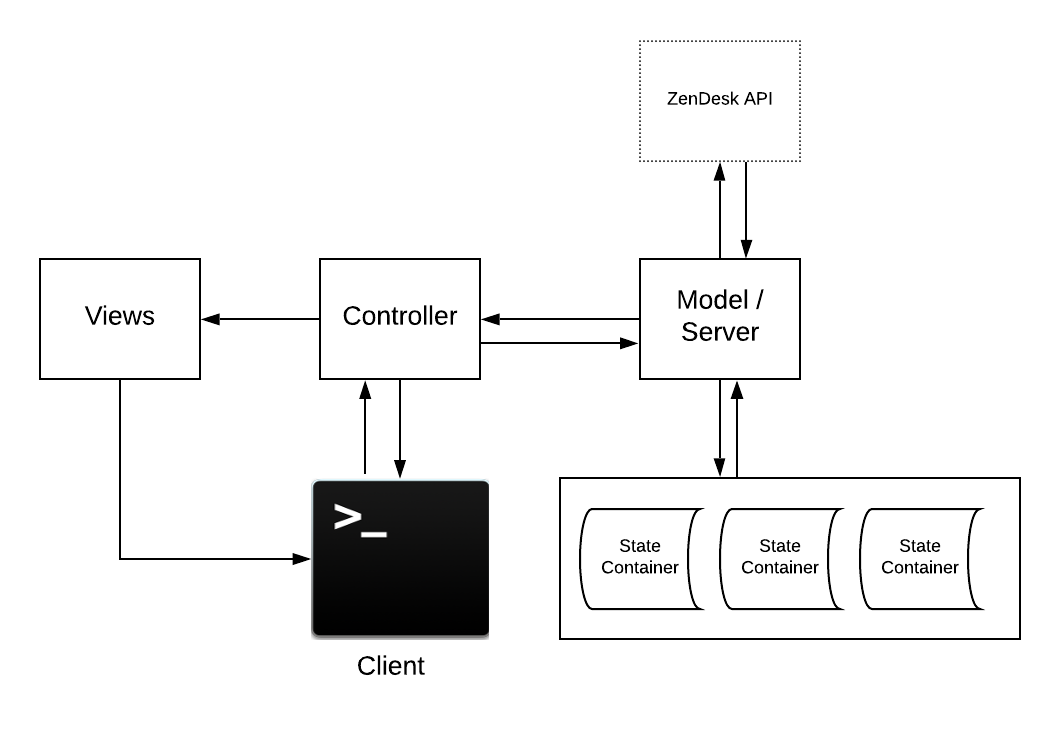
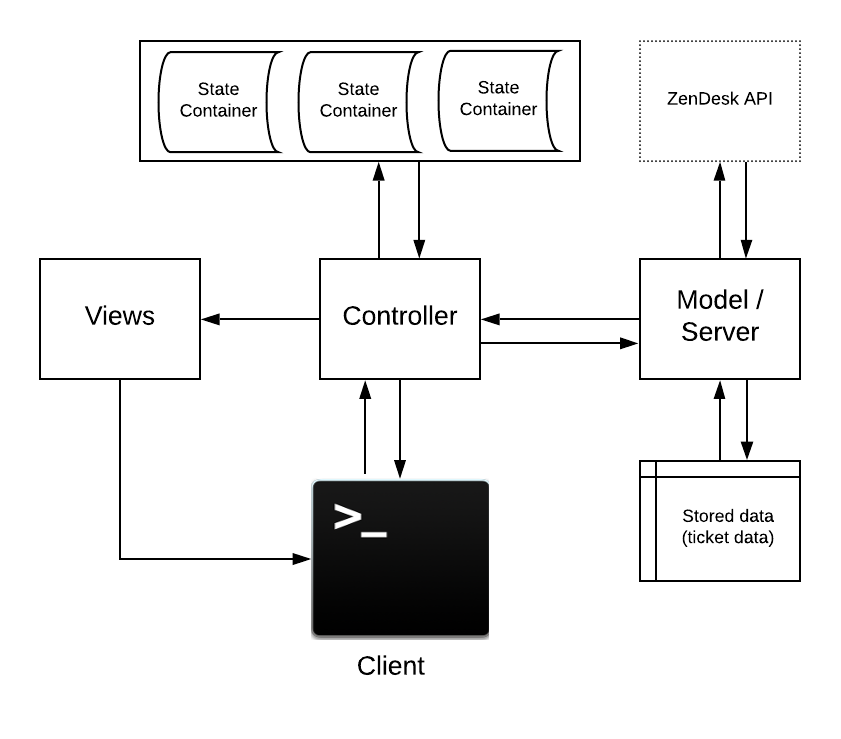
Update README.md

diff --git a/README.md b/README.md
@@ -75,10 +75,10 @@ The architecture of any software application or system is crucial and provides t
 
 I considered multiple options, 
 
-MVP (Model View Presenter)
-MVC (Model View Controller)
-MVC with Passive View
-Event driven Architecture
+- MVP (Model View Presenter)
+- MVC (Model View Controller)
+- MVC with Passive View
+- Event driven Architecture
 
 I eventually chose the Model-View-Controller with Passive View. The architecture diagram is as follows:
 
@@ -89,3 +89,13 @@ The reasoning behind this choice is that the MVC architectural pattern is one of
 This does involve additional work as data binding is done at the controller side as the view has minimal logic as possible.
 
 Other patterns like the Event Driven architecture required substantially higher complexity and seemed to over-complicate the project of this size. Therefore, the MVC with passive view remained the clear choice. 
+
+In summary:
+- The MVC model allows for effective decoupling of business logic, data and presentation. This ensures that the structure of the program is well organised, there is a clear separation of concerns and testing can done effectively without affecting other functions.
+
+In the Zendesk CLi: 
+- Model - handles server requests and the treatment & processing of data. Statefulness through storing responses similar to a database. This is Similar to rails, node or go server.
+
+- Controller - Queries the model and ultimately drives the program from user input. It maintains statefulness through state containers (similar to redux).
+
+- Presentation - Presents the views to the user. Little logic as possible, completely decoupled from the model. Controller feeds in the view to show.
